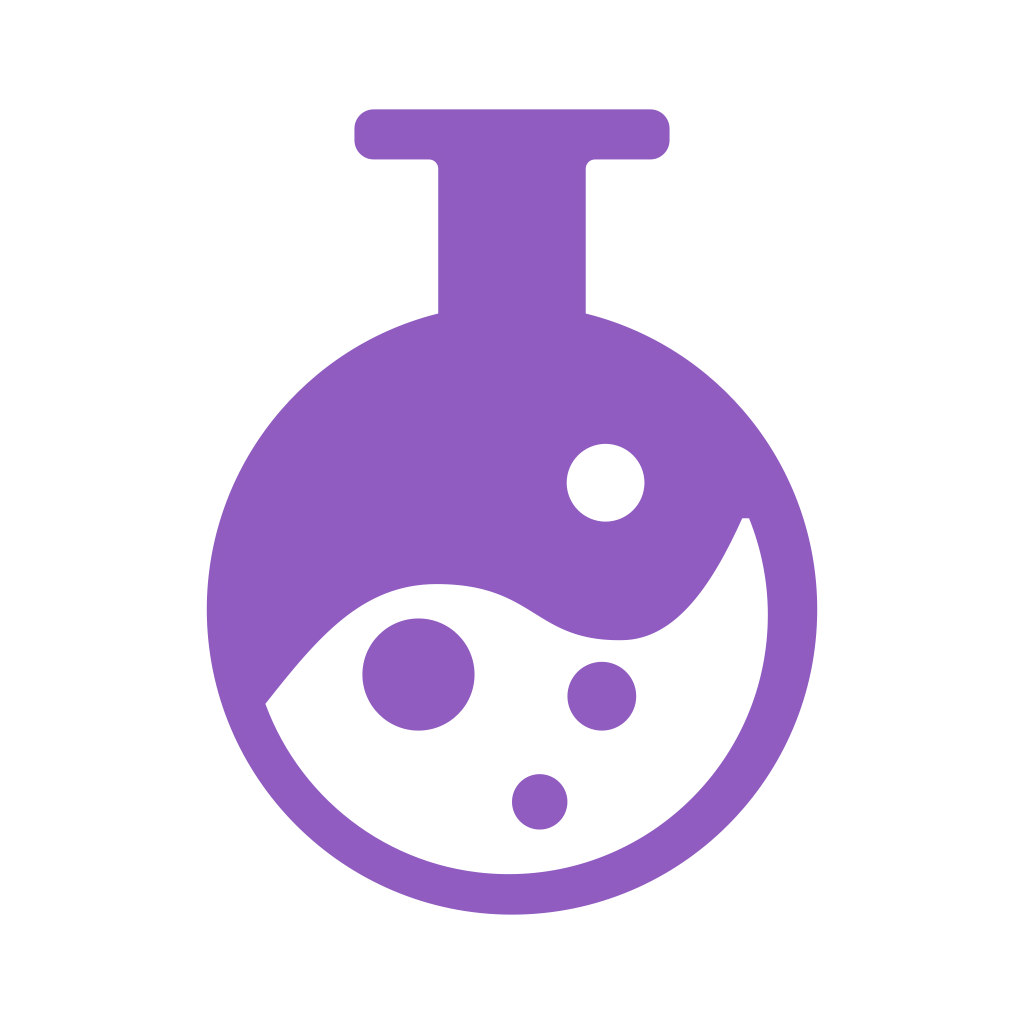
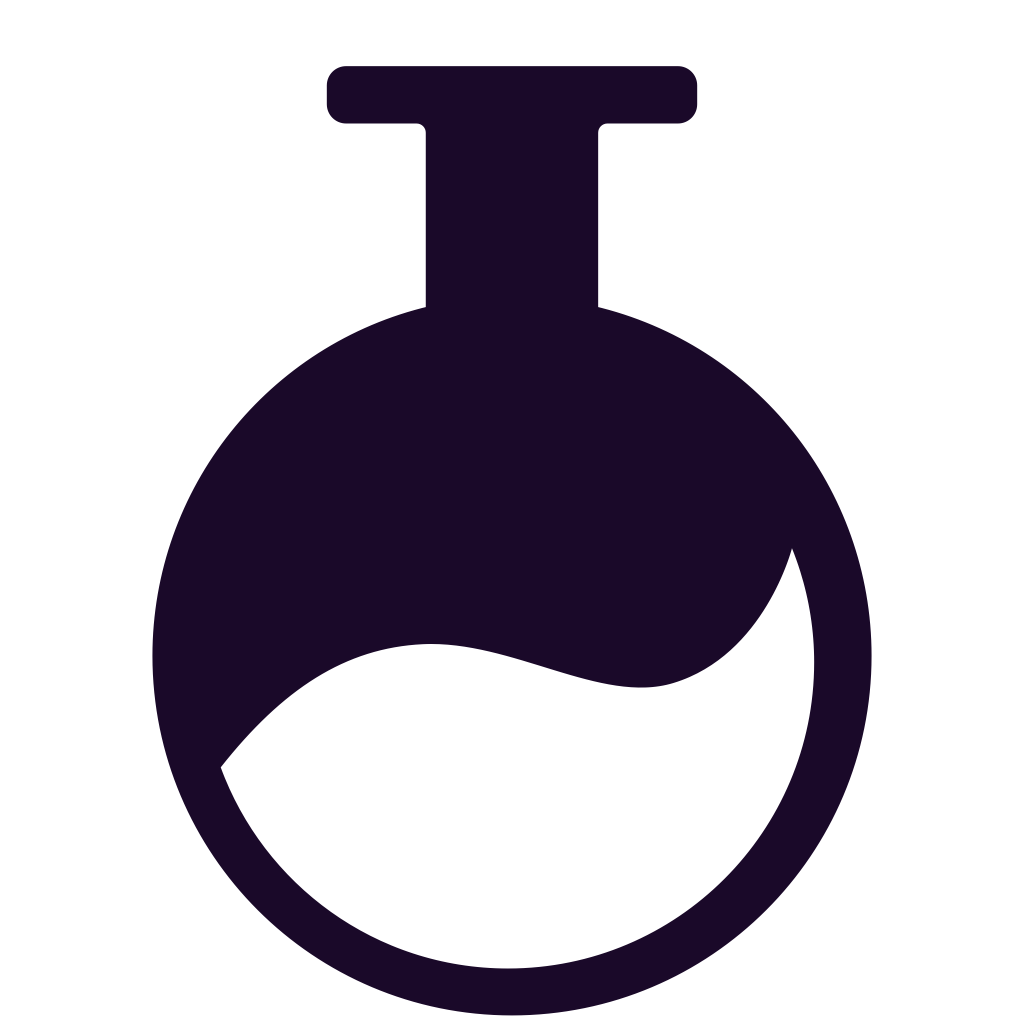
new plugin docs

diff --git a/src/pages/index.js b/src/pages/index.js
@@ -3,7 +3,7 @@ import clsx from "clsx";
 import Link from "@docusaurus/Link";
 import useDocusaurusContext from "@docusaurus/useDocusaurusContext";
 import Layout from "@theme/Layout";
-import Flask from "@site/static/img/flask-bw.png";
+import Flask from "@site/static/img/flask.png";
 import Screenshot02 from "/img/screenshot01.png";
 
 import styles from "./index.module.css";

diff --git a/docusaurus.config.js b/docusaurus.config.js
@@ -80,7 +80,7 @@ const config = {
         title: "Transformer Lab",
         logo: {
           alt: "Transfomer Lab Logo",
-          src: "img/flask-bw.svg",
+          src: "img/flask.svg",
         },
         items: [
           {

diff --git a/docs/advanced/plugins.md b/docs/advanced/plugins.md
@@ -1,0 +1,51 @@
+---
+sidebar_position: 10
+---
+
+# Writing Plugins
+
+## Introduction
+
+Plugins extend the functionality of Transformer Lab, giving it more options for inference, training, or evaluations.
+
+Plugins are just python scripts that are called by Transformer Lab.
+
+## Contents of Plugin
+
+A full plugin contains at least three files:
+
+1. `index.json` -- which defines the contents of the plugin
+2. `main.py` -- which defines the script
+3. `setup.ph` -- which is run once when the plugin is installed. It can install depedencies (often by calling python `pip`)
+
+You can view an example plugin to use as a template at:
+
+[Sample Plugin](https://github.com/transformerlab/transformerlab-api/tree/main/transformerlab/plugins/sample_plugin)
+
+## How Plugins are Installed and Where They are Stored
+
+When Transformer Lab is started, it copies all the sample plugins that are stored at `./transformerlab/plugins/` to `./workspace/plugins`
+
+The plugins at `./workspace/plugins/` are available to be installed to any experiment by going to Experiment->Plugins Script Store and clicking on Install
+
+<img src={require('./img/install-plugin.png').default} alt="Install Plugin Screenshot" width="500" />
+
+Additional plugins, that are not included by default, are also listed and can be installed in the same way.
+
+Note that in the current version of Transformer Lab, all plugins are stored per experiment. There is no concept of a "global plugin" that is shared by all experiments.
+
+## Editing Plugins
+
+Once a plugin is installed to an experiment, you can edit the contents of the script by going to Plugins->Installed Plugin Scripts and then clicking on Edit on any specific plugin.
+
+<img src={require('./img/plugin-editor.png').default} alt="Edit Plugin Screenshot" width="500" />
+
+Editing a plugin will only edit it for _that specific experiment_ because each plugin is copied to an experiment when it is installed.
+
+## Creating new Plugins
+
+If you would like to create a new plugin only for yourself, you can create it at `./workspace/plugins` and it will be available to all your experiments.
+
+If you would like to share your plugin with others users of Transformer Lab, we would love if you submitted it to the gallery by creating a pull request on this repo:
+
+https://github.com/transformerlab/galleries
